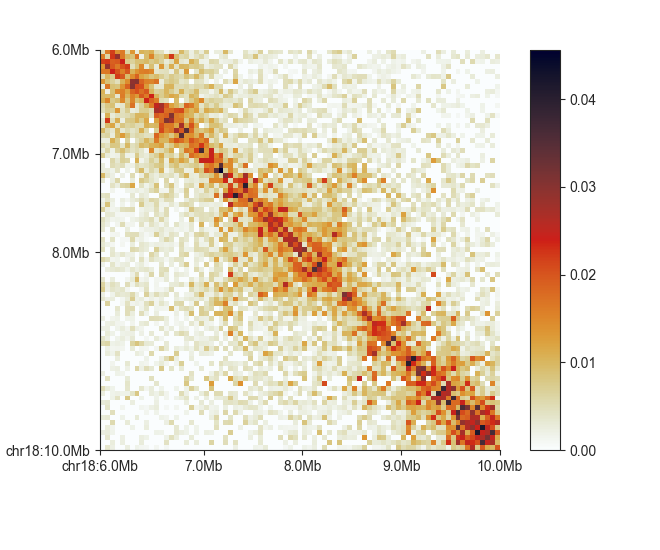
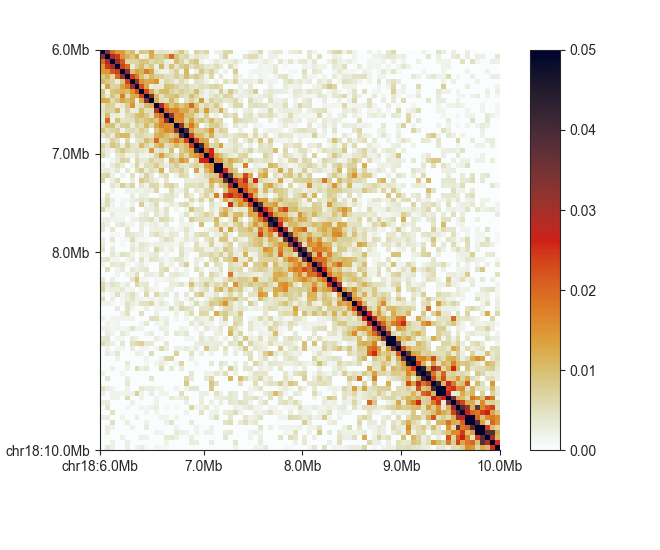
Update fancplot images

diff --git a/docsrc/fancplot-executable/matrix_panel_types.rst b/docsrc/fancplot-executable/matrix_panel_types.rst
@@ -22,6 +22,18 @@ comparisons. You simply provide it with a FAN-C compatible matrix file:
 
 .. image:: images/fancplot_triangular_example.png
 
+You often need to adjust the matrix saturation, to highlight different parts of the image.
+You can do this interactively with ``-r``:
+
+.. literalinclude:: code/panel_types_commands
+    :language: bash
+    :start-after: start snippet triangular range
+    :end-before: end snippet triangular range
+
+.. image:: images/fancplot_triangular_example_range.png
+
+Or by explicitly setting a maximum saturation using ``-vmax``, in this case to ``0.05``.
+
 You can truncate the triangle at a certain distance with ``-m`` for more compact plots:
 
 .. literalinclude:: code/panel_types_commands
@@ -31,17 +43,7 @@ You can truncate the triangle at a certain distance with ``-m`` for more compact
 
 .. image:: images/fancplot_triangular_example_truncated.png
 
-For interactive plotting, you can add a slider that controls the saturation of the
-heatmap colors using ``-r``:
-
-.. literalinclude:: code/panel_types_commands
-    :language: bash
-    :start-after: start snippet triangular range
-    :end-before: end snippet triangular range
-
-.. image:: images/fancplot_triangular_example_range.png
-
-Or you can set the saturation values directly using ``-vmin`` and ``-vmax``:
+You can also set the lower saturation values directly using ``-vmin``:
 
 .. literalinclude:: code/panel_types_commands
     :language: bash
